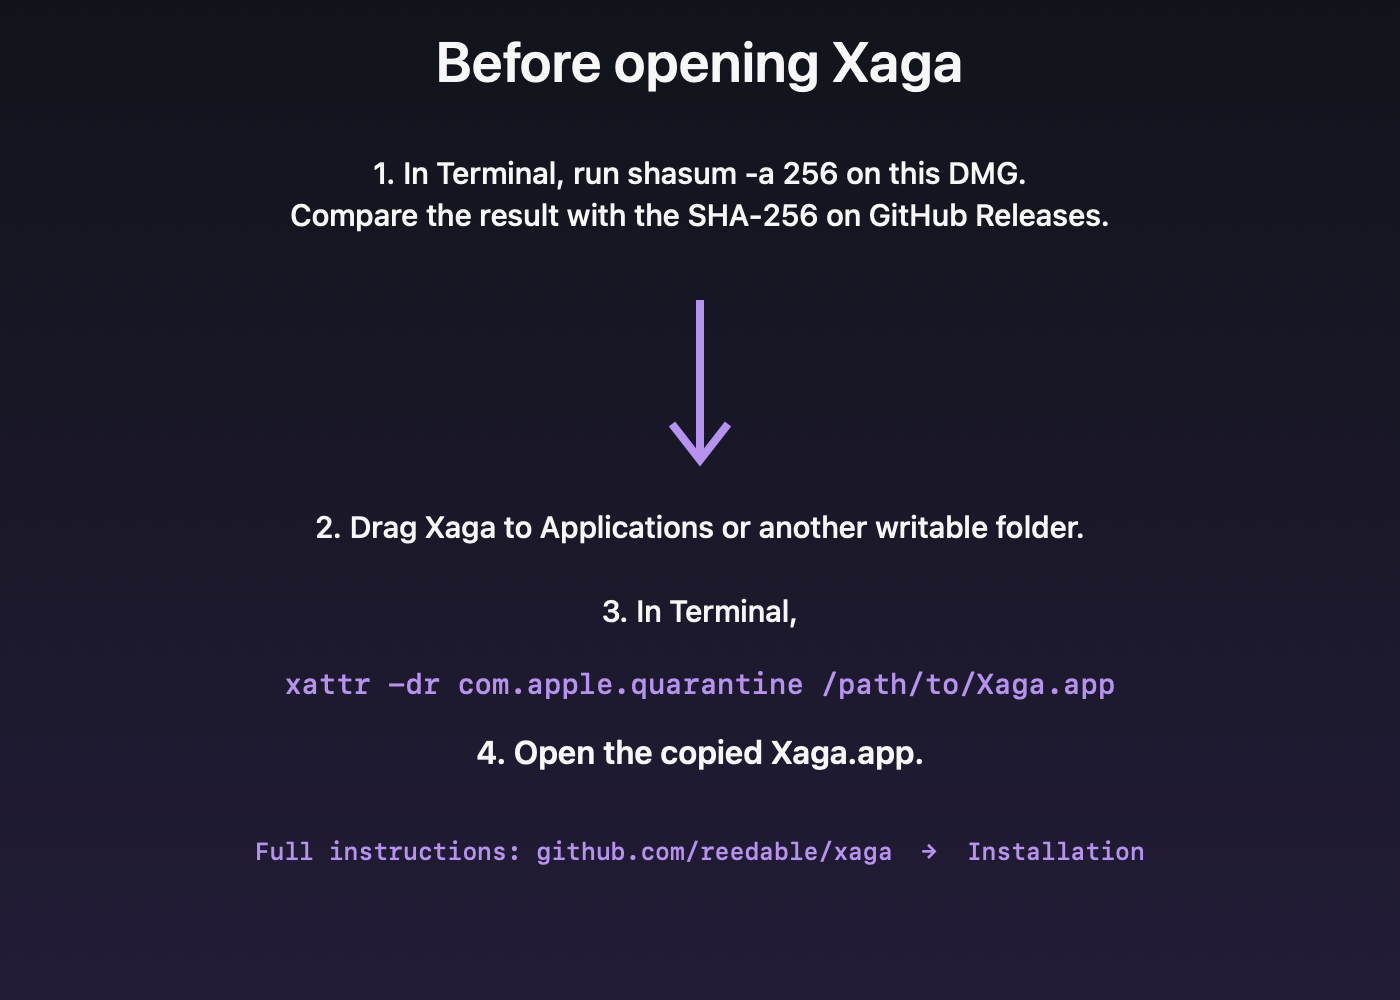
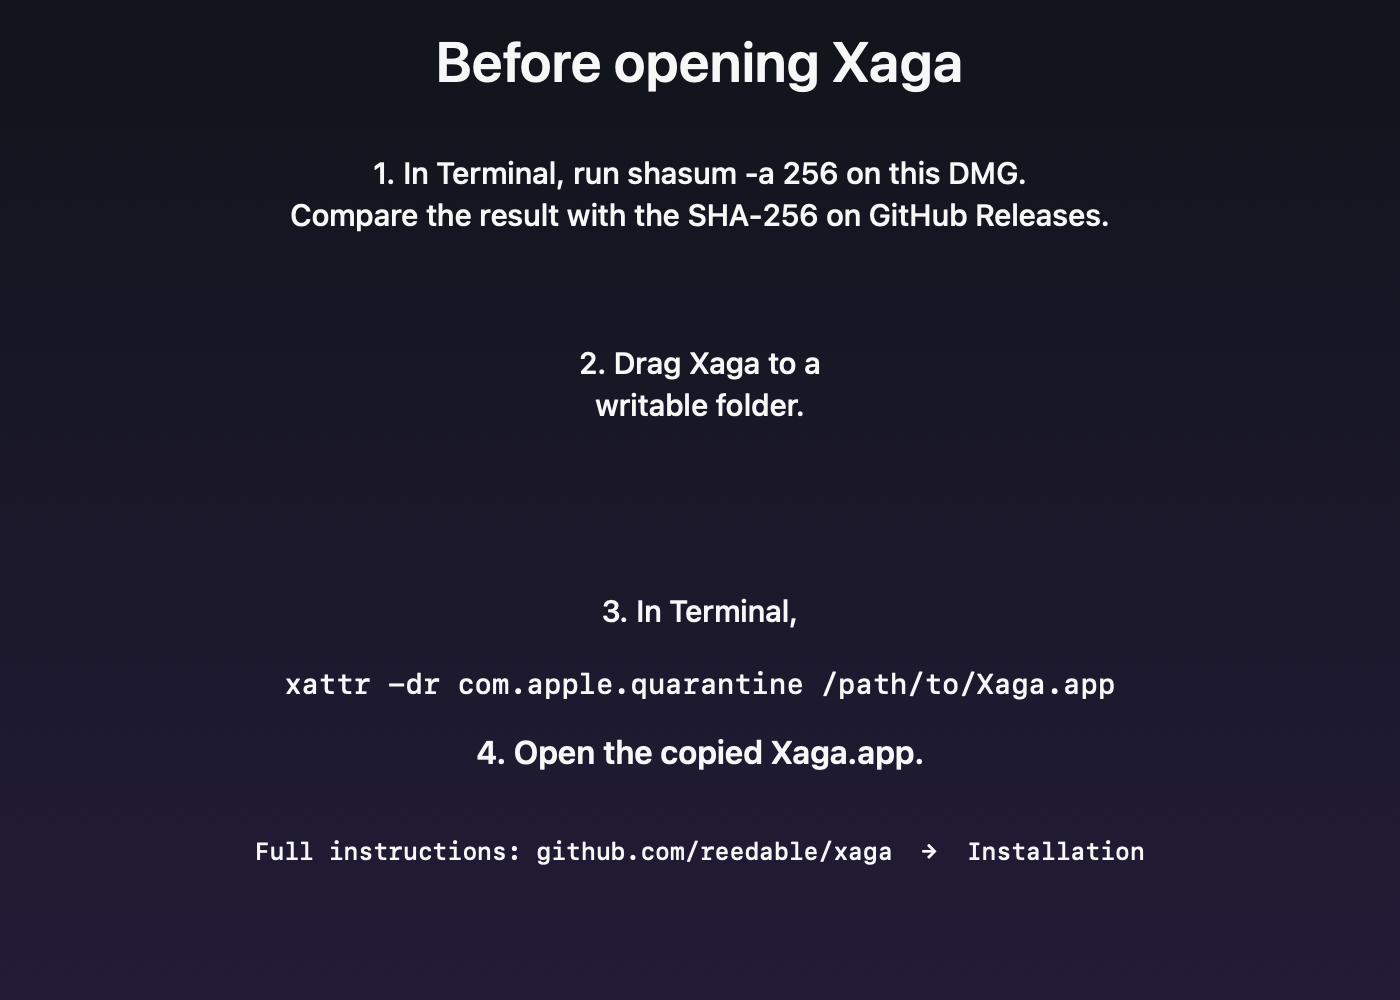
Tweaking dmg background

diff --git a/scripts/generate-dmg-background.swift b/scripts/generate-dmg-background.swift
@@ -42,7 +42,6 @@ func drawText(
 }
 
 let white = NSColor(calibratedWhite: 0.96, alpha: 1)
-let accent = NSColor(calibratedRed: 0.68, green: 0.47, blue: 0.95, alpha: 1)
 
 drawText(
   "Before opening Xaga",
@@ -57,19 +56,9 @@ drawText(
   color: white
 )
 
-let arrow = NSBezierPath()
-arrow.lineWidth = 4
-arrow.move(to: NSPoint(x: 350, y: 350))
-arrow.line(to: NSPoint(x: 350, y: 270))
-arrow.move(to: NSPoint(x: 336, y: 288))
-arrow.line(to: NSPoint(x: 350, y: 270))
-arrow.line(to: NSPoint(x: 364, y: 288))
-accent.setStroke()
-arrow.stroke()
-
 drawText(
-  "2. Drag Xaga to Applications or another writable folder.",
-  in: NSRect(x: 100, y: 220, width: 500, height: 26),
+  "2. Drag Xaga to a\nwritable folder.",
+  in: NSRect(x: 240, y: 280, width: 220, height: 48),
   font: .systemFont(ofSize: 15, weight: .medium),
   color: white
 )
@@ -84,7 +73,7 @@ drawText(
   "xattr -dr com.apple.quarantine /path/to/Xaga.app",
   in: NSRect(x: 40, y: 139, width: 620, height: 28),
   font: .monospacedSystemFont(ofSize: 14, weight: .medium),
-  color: accent
+  color: white
 )
 drawText(
   "4. Open the copied Xaga.app.",
@@ -96,7 +85,7 @@ drawText(
   "Full instructions: github.com/reedable/xaga  →  Installation",
   in: NSRect(x: 40, y: 58, width: 620, height: 24),
   font: .monospacedSystemFont(ofSize: 12, weight: .medium),
-  color: accent
+  color: white
 )
 
 image.unlockFocus()
